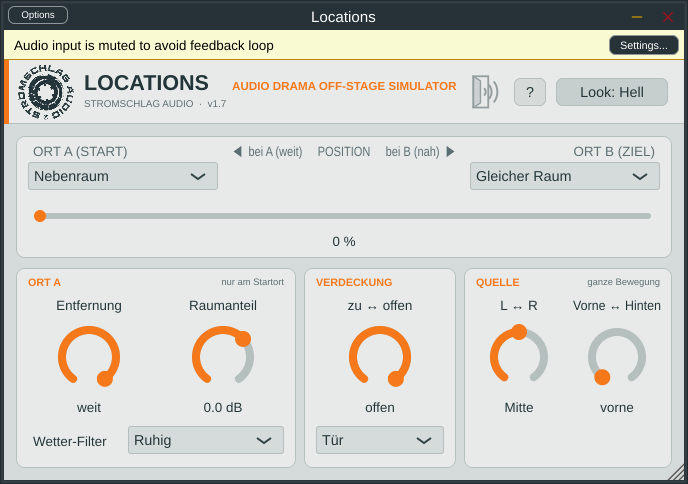
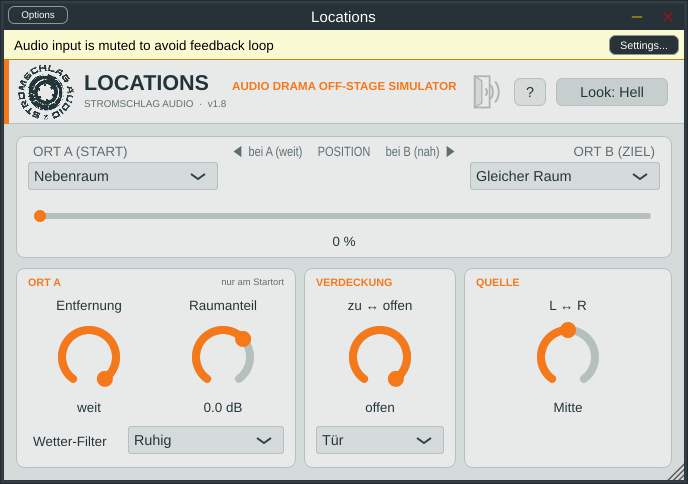
1.8: Vorne/Hinten entfernt, Symbol dezenter und mittig, Hilfe und README angepasst
Claude-Session: https://claude.ai/code/session_01N8U6GB1xxMvz4mQTh8N7Nk

diff --git a/docs/index.html b/docs/index.html
@@ -61,7 +61,7 @@
   <h2>Was es kann</h2>
   <ul>
     <li><strong>Quelle platzieren:</strong> tief im Wald, hinter einer geschlossenen Tür oder im Keller.</li>
-    <li><strong>Quelle bewegen:</strong> eine Tür öffnet sich, während jemand spricht, oder jemand geht hinter dem Zuhörer vorbei.</li>
+    <li><strong>Quelle bewegen:</strong> eine Tür öffnet sich, während jemand spricht, oder jemand kommt aus dem Nebenraum herein.</li>
     <li><strong>Ein Hauptregler:</strong> „Position (A nach B)“ ist der Regler, den man automatisiert. Alles andere stellt man einmal ein.</li>
     <li><strong>Orte:</strong> 14 Umgebungen innen und draußen, dazu Verdeckungen wie Tür, Fenster, Vorhang und Autoscheibe.</li>
     <li><strong>Wetter-Filter für draußen:</strong> Ruhig, Wind, Regen, Sturm. Er verändert nur den Klang.</li>

diff --git a/Source/PluginEditor.cpp b/Source/PluginEditor.cpp
@@ -56,7 +56,6 @@ LocationsEditor::LocationsEditor (LocationsProcessor& p) : AudioProcessorEditor 
     setupKnob (distance, "distance", "Entfernung");
     setupKnob (door, "door", u8 ("zu \xe2\x86\x94 offen"));
     setupKnob (pan, "pan", u8 ("L \xe2\x86\x94 R"));
-    setupKnob (rear, "rear", u8 ("Vorne \xe2\x86\x94 Hinten"));
     setupKnob (room, "room", "Raumanteil");
 
     barrierBox.addItemList (LocationsProcessor::barrierNames(), 1);
@@ -90,14 +89,14 @@ LocationsEditor::LocationsEditor (LocationsProcessor& p) : AudioProcessorEditor 
     helpText.setPopupMenuEnabled (false);
     helpText.setText (u8 (
         "ORT A / ORT B\n"
-        "Start- und Zielort der Bewegung. Ort B ist meistens „Gleicher Raum“, also der Raum der Zuhörer. Ort B ist immer nah.\n\n"
+        "Start- und Zielort der Bewegung. Ort B ist meistens „Gleicher Raum“, also der Raum der Szene, aus dessen Blickwinkel man hört. Ort B ist immer nah.\n\n"
         "POSITION (A nach B)\n"
         "Der wichtigste Regler. 0 % = Quelle bei Ort A, 100 % = bei Ort B. Automatisiere ihn für jede Bewegung "
-        "(Treppe herunter, Förster kommt näher, jemand geht weg).\n\n"
+        "(Treppe herunter, Suchtrupp kommt näher, jemand geht weg).\n\n"
         "Unten gibt es drei Kästen: ORT A (wirkt nur am Startort), VERDECKUNG (unabhängig von der Position) "
-        "und QUELLE (gilt für die ganze Bewegung).\n\n"
+        "und QUELLE (links/rechts, bleibt über die ganze Bewegung gleich).\n\n"
         "ORT A – ENTFERNUNG (nah – weit)\n"
-        "Wie weit weg Ort A ist. Beispiel Förster: weit = tief im Wald, 40 % = hinter dem nächsten Baum. "
+        "Wie weit weg Ort A ist. Beispiel Suchtrupp: weit = tief im Wald, 40 % = ein paar Bäume entfernt. "
         "Wirkt nur auf Ort A.\n\n"
         "VERDECKUNG (zu – offen + Art)\n"
         "Etwas, das sich zwischen Quelle und Hörer stellt und den Klang dämpft. Unter dem Regler wählst du die Art: "
@@ -107,8 +106,6 @@ LocationsEditor::LocationsEditor (LocationsProcessor& p) : AudioProcessorEditor 
         "QUELLE – L ↔ R (Panorama)\n"
         "Platziert die Quelle – also das, was auf der Spur liegt: Stimme, Schritte, Geräusch – links oder rechts. "
         "Hall und Echo bleiben in der Mitte (anders als der Pan am Kanal). Wirkt bei Ort A, auf dem Weg und bei Ort B.\n\n"
-        "QUELLE – VORNE ↔ HINTEN\n"
-        "Steht die Quelle hinter dem Hörer, klingt sie etwas dunkler. Hall und Echo bleiben gleich.\n\n"
         "ORT A – WETTER-FILTER\n"
         "Ändert nur den Klang, es kommen keine Wind- oder Regengeräusche dazu. Nur wenn Ort A draußen ist: "
         "Wind, Regen oder Sturm schlucken Höhen und lassen Rufe in Böen schwanken. "
@@ -127,7 +124,6 @@ LocationsEditor::LocationsEditor (LocationsProcessor& p) : AudioProcessorEditor 
     blend.setTooltip (u8 ("Position: 0 % = bei Ort A (weit), 100 % = bei Ort B (nah). Hauptregler fuer die Bewegung."));
     distance.slider.setTooltip (u8 ("Wie weit weg Ort A ist (nah = 0 %, weit = 100 %). Ort B ist immer nah."));
     door.slider.setTooltip (u8 ("zu = dumpf und leise (Klang je nach Art der Verdeckung), offen = keine Wirkung"));
-    rear.slider.setTooltip (u8 ("Quelle vor oder hinter dem H\xc3\xb6rer: hinten klingt sie etwas dunkler. Hall bleibt gleich."));
     barrierBox.setTooltip (u8 ("Was zwischen Quelle und H\xc3\xb6rer ist: T\xc3\xbcr, Fenster, Vorhang oder Autoscheibe (jemand spricht von au\xc3\x9f" "en ins Auto)"));
     weatherBox.setTooltip (u8 ("Ändert nur den Klang, erzeugt keine Wind- oder Regengeräusche: Höhen werden geschluckt, Böen lassen Rufe schwanken. Wirkt nur, wenn Ort A draußen ist, und stärker mit der Entfernung."));
     weatherLabel.setTooltip (weatherBox.getTooltip());
@@ -235,13 +231,19 @@ void LocationsEditor::paint (juce::Graphics& g)
             waves.addArc (cx - r, cy - r, 2.0f * r, 2.0f * r,
                           juce::MathConstants<float>::halfPi - half,
                           juce::MathConstants<float>::halfPi + half, true);
-        const auto place = juce::AffineTransform::scale (1.3f).translated (468.0f, 15.0f);
+        juce::GlyphArrangement ga;
+        ga.addLineOfText (juce::Font (juce::FontOptions (13.0f, juce::Font::bold)),
+                          "AUDIO DRAMA OFF-STAGE SIMULATOR", 0.0f, 0.0f);
+        const float subEnd  = 228.0f + ga.getBoundingBox (0, -1, true).getWidth();   // Ende des Untertitels
+        const float helpX   = (float) (kBaseW - 170);                                 // linke Kante des ?-Knopfs
+        const float mid     = 0.5f * (subEnd + helpX);                                // Mitte dazwischen
+        const auto place = juce::AffineTransform::scale (1.3f).translated (mid - 11.9f, 15.0f);   // 11,9 = Mitte des Symbols
         door.applyTransform (place);
         leaf.applyTransform (place);
         waves.applyTransform (place);
         // dezent: mischt Textfarbe zum Leistenhintergrund, damit Titel und Logo kraeftiger bleiben
-        const auto ink  = theme.panel.interpolatedWith (theme.text, 0.42f);
-        const auto fill = theme.panel.interpolatedWith (theme.text, 0.14f);
+        const auto ink  = theme.panel.interpolatedWith (theme.text, 0.30f);
+        const auto fill = theme.panel.interpolatedWith (theme.text, 0.10f);
         g.setColour (fill);
         g.fillPath (leaf);
         g.setColour (ink);
@@ -261,7 +263,7 @@ void LocationsEditor::paint (juce::Graphics& g)
     struct Box { float x, w; const char* title; const char* note; };
     const Box boxes[] = { { 12.0f, 280.0f, "ORT A", "nur am Startort" },
                           { 300.0f, 152.0f, "VERDECKUNG", "" },
-                          { 460.0f, (float) W - 472.0f, "QUELLE", "ganze Bewegung" } };
+                          { 460.0f, (float) W - 472.0f, "QUELLE", "" } };
     for (const auto& b : boxes)
     {
         g.setColour (theme.panel);
@@ -309,9 +311,8 @@ void LocationsEditor::resized()
     // VERDECKUNG: Regler in der Reihe, Art-Auswahl darunter (auf Hoehe des Wetter-Filters)
     placeKnob (door, 306, 236, 140);
     barrierBox.setBounds (312, 366, 128, 28);
-    // QUELLE: L-R, vorne-hinten
-    const int qx = 466, qw = (w - 12 - 6 - qx) / 2;
+    // QUELLE: L-R (ein Regler, mittig im Kasten)
+    const int qx = 466, qw = w - 12 - 6 - qx;
     placeKnob (pan, qx, 236, qw);
-    placeKnob (rear, qx + qw, 236, qw);
     helpText.toFront (false);
 }

diff --git a/Source/LocationsDSP.h b/Source/LocationsDSP.h
@@ -287,7 +287,6 @@ struct Params
     float door = 1.0f;         // 0 = zu, 1 = offen
     float roomDb = 0.0f;       // Raumanteil von Ort A (Trim, dB)
     float pan = 0.0f;          // -1 = links, 0 = Mitte, +1 = rechts (nur die Quelle, nicht der Raum)
-    float rear = 0.0f;         // 0 = vorne, 1 = hinten (nur die Quelle)
     int   barrier = 0;         // Tuer / Fenster / Vorhang / Autoscheibe
     int   weather = 0;         // Ruhig / Wind / Regen / Sturm (wirkt nur draussen bei Ort A)
 };
@@ -312,7 +311,6 @@ public:
         for (auto& f : doorLp) f.reset();
         for (auto& f : doorHp) f.reset();
         for (auto& f : doorBp) f.reset();
-        for (auto& f : rearHp) f.reset();
     }
     // left/right duerfen identisch sein (Mono). Verarbeitung in-place.
     void process (float* left, float* right, int numSamples, const Params& p)
@@ -332,11 +330,6 @@ public:
             float al, ar, bl, br;
             roomA.process (mono, wetA, echoA, al, ar);
             roomB.process (mono, wetB, echoB, bl, br);
-            if (rearCut < 1.0f)                              // hinten: Hoehen der Quelle etwas dunkler
-            {
-                l += (rearCut - 1.0f) * rearHp[0].highpass (l);
-                r += (rearCut - 1.0f) * rearHp[1].highpass (r);
-            }
             l = (l * panL + al + bl) * gain;                 // Quelle gepannt, Raum bleibt stehen
             r = (r * panR + ar + br) * gain;
 
@@ -417,12 +410,6 @@ private:
         panL = 1.41421356f * std::cos (theta);
         panR = 1.41421356f * std::sin (theta);
 
-        // vorne/hinten (nur Quelle): hinten bis zu 7 dB weniger Hoehen ab ca. 2,5 kHz
-        sRear += smCoef * (std::clamp (p.rear, 0.0f, 1.0f) - sRear);
-        rearCut = dbToLin (-7.0f * sRear);
-        if (sRear < 0.001f) rearCut = 1.0f;
-        for (auto& f : rearHp) f.set (2500.0f, sr);
-
         // Verdeckung (Tuer, Fenster, Vorhang, Autoscheibe): zu = Klang des Hindernisses, offen = unveraendert
         const auto& D = barrier (p.barrier);
         if (firstBar) { bFc = std::log (D.fcClosed); bGain = D.gainDb; bHp = D.hpHz; bBodyHz = std::log (D.bodyHz); bQ = D.bodyQ; bAmt = D.bodyAmt; firstBar = false; }
@@ -450,7 +437,6 @@ private:
     float sDly = 1.0f, curDly = 1.0f, dlyStep = 0.0f;
     float open = 1.0f, gain = 1.0f, panL = 1.0f, panR = 1.0f;
     float doorBody = 0, doorGain = 1, doorOpen = 1;
-    float sRear = 0.0f, rearCut = 1.0f;
     float bFc = 6.5f, bGain = 0.0f, bHp = 20.0f, bBodyHz = 5.3f, bQ = 1.0f, bAmt = 0.0f; bool firstBar = true;
     float gustState = 0.0f, gustState2 = 0.0f, gustCoef = 0.01f;
     unsigned int rng = 0x9e3779b9u;
@@ -458,6 +444,6 @@ private:
     bool first = true; int counter = 0;
     Room roomA, roomB;
     Delay path[2];
-    SVF lp[2], doorLp[4], doorBp[2]; OnePole doorHp[2], rearHp[2];
+    SVF lp[2], doorLp[4], doorBp[2]; OnePole doorHp[2];
 };
 } // namespace loc

diff --git a/Source/PluginProcessor.cpp b/Source/PluginProcessor.cpp
@@ -48,11 +48,6 @@ juce::AudioProcessorValueTreeState::ParameterLayout LocationsProcessor::createLa
                             return pct <= 0 ? String ("zu") : pct >= 100 ? String ("offen") : String (pct) + " %"; });
     layout.add (std::make_unique<AudioParameterFloat> (ParameterID { "door", 1 }, "Verdeckung (zu-offen)",
                                                        NormalisableRange<float> (0.0f, 1.0f), 1.0f, doorText));
-    auto rearText = AudioParameterFloatAttributes().withStringFromValueFunction (
-        [] (float v, int) { const int pct = roundToInt (v * 100.0f);
-                            return pct <= 0 ? String ("vorne") : pct >= 100 ? String ("hinten") : String (pct) + " %"; });
-    layout.add (std::make_unique<AudioParameterFloat> (ParameterID { "rear", 1 }, "Quelle vorne-hinten",
-                                                       NormalisableRange<float> (0.0f, 1.0f), 0.0f, rearText));
     layout.add (std::make_unique<AudioParameterChoice> (ParameterID { "barrier", 1 }, "Verdeckung (Art)", barrierNames(), 0));
     layout.add (std::make_unique<AudioParameterChoice> (ParameterID { "weather", 1 }, "Wetter-Filter (Ort A draussen)", weatherNames(), 0));
     layout.add (std::make_unique<AudioParameterFloat> (ParameterID { "room", 1 }, "Raumanteil (Ort A)",
@@ -78,7 +73,6 @@ LocationsProcessor::LocationsProcessor()
     pDoor = apvts.getRawParameterValue ("door");
     pRoom = apvts.getRawParameterValue ("room");
     pPan = apvts.getRawParameterValue ("pan");
-    pRear = apvts.getRawParameterValue ("rear");
     pBarrier = apvts.getRawParameterValue ("barrier");
     pWeather = apvts.getRawParameterValue ("weather");
 }
@@ -113,7 +107,6 @@ void LocationsProcessor::processBlock (juce::AudioBuffer<float>& buffer, juce::M
     p.door = pDoor->load();
     p.roomDb = pRoom->load();
     p.pan = pPan->load();
-    p.rear = pRear->load();
     p.barrier = juce::roundToInt (pBarrier->load());
     p.weather = juce::roundToInt (pWeather->load());
 

diff --git a/Source/PluginProcessor.h b/Source/PluginProcessor.h
@@ -43,7 +43,7 @@ private:
     std::atomic<float>* pPlaceA = nullptr; std::atomic<float>* pPlaceB = nullptr;
     std::atomic<float>* pBlend = nullptr;  std::atomic<float>* pDistance = nullptr;
     std::atomic<float>* pDoor = nullptr;   std::atomic<float>* pRoom = nullptr;
-    std::atomic<float>* pPan = nullptr;  std::atomic<float>* pRear = nullptr;
+    std::atomic<float>* pPan = nullptr;
     std::atomic<float>* pBarrier = nullptr; std::atomic<float>* pWeather = nullptr;
 
     JUCE_DECLARE_NON_COPYABLE_WITH_LEAK_DETECTOR (LocationsProcessor)

diff --git a/Source/PluginEditor.h b/Source/PluginEditor.h
@@ -34,7 +34,7 @@ private:
     juce::ComboBox placeA, placeB;
     juce::Label labelA, labelB, labelBlend;
     juce::Slider blend;
-    Knob distance, door, pan, rear, room;
+    Knob distance, door, pan, room;
     juce::ComboBox barrierBox, weatherBox;
     juce::Label weatherLabel;
     std::unique_ptr<APVTS::ComboBoxAttachment> attBarrier, attWeather;

diff --git a/README.md b/README.md
@@ -113,8 +113,7 @@ passieren automatisch.
 | | Wetter-Filter | Ruhig, Wind, Regen, Sturm. **Ändert nur den Klang, erzeugt keine Wind- oder Regengeräusche.** Nur wenn Ort A draußen ist: Höhen werden geschluckt, Böen lassen Rufe schwanken. Stärker mit der Entfernung, verschwindet zu Ort B hin |
 | **VERDECKUNG** – etwas, das sich zwischen Quelle und Hörer stellt; unabhängig von der Position | Art | Tür, Fenster (gekippt ≈ Mitte), Vorhang oder Autoscheibe |
 | | zu ↔ offen | zu = dumpf und leise mit dem Klang des Hindernisses, offen = keine Wirkung. Die Tür bleibt zu, bis du sie öffnest – auch wenn die Quelle schon bei Ort B ist |
-| **QUELLE** – gilt für die ganze Bewegung | L ↔ R | Panorama der Quelle (Stimme, Schritte, Geräusch auf der Spur). Nur die Quelle wandert, Hall und Echo bleiben in der Mitte – anders als beim Pan am Kanal |
-| | Vorne ↔ Hinten | hinter dem Hörer klingt die Quelle etwas dunkler. Es entsteht keine binaurale Rundum-Ortung; Hall und Echo bleiben gleich |
+| **QUELLE** | L ↔ R | Panorama der Quelle (Stimme, Schritte, Geräusch auf der Spur). Nur die Quelle wandert, Hall und Echo bleiben in der Mitte – anders als beim Pan am Kanal. Gilt über die ganze Bewegung |
 
 ## Anwendung
 
@@ -147,6 +146,8 @@ Aus der Ferne kommen nur Fetzen durch, je näher er kommt, desto verständlicher
 
 Die Versionsnummer steht in der Datei `VERSION`, im Plugin-Kopf und im Namen der Release. Sie wird bei jeder Änderung hochgezählt (1.0, 1.1, 1.2 …).
 
+- **1.8** – Regler „Vorne ↔ Hinten“ entfernt (der Effekt war im Stereobild zu schwach, um glaubwürdig zu sein), Hinweis „ganze Bewegung“ gestrichen, Tür-Symbol dezenter und mittig zwischen Titel und Hilfe-Knopf.
+  *Achtung:* Projekte mit Version 1.7 bitte kurz prüfen; der Regler ist weg.
 - **1.7** – Drehregler lassen sich nur noch senkrecht ziehen (hoch = mehr, runter = weniger), seitliche Handbewegung wirkt nicht mehr mit; kürzerer Weg bis zu den Endstellungen.
 - **1.6** – Kleines Symbol in der Kopfleiste (halboffene Tür mit Schallwellen, dezent in der Farbe der Leiste).
 - **1.5** – „Dazwischen“ heißt jetzt „Verdeckung“, Regler stehen in allen Kästen auf einer Linie, Auswahl darunter.
